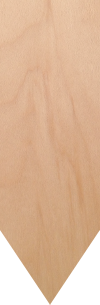
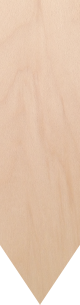
Retina enhanced header

diff --git a/app/assets/stylesheets/pupppypages.css.scss b/app/assets/stylesheets/pupppypages.css.scss
@@ -1,16 +1,18 @@
 body {
+    height: 100%;
     background: -webkit-gradient(linear, left top, left bottom, color-stop(0%, #FAFBF5), color-stop(100%, #D0DBB6));
 }
 #main_header {
     float: left;
-    width:100px;
+    width: 80px;
     height: 305px;
     background: url(/assets/header_bg.png);
     margin-top: 1%;
     margin-left: 2%;
     ul {
         padding-top: 15%;
-        padding-left: 0%;
+        padding-left: 20%;
+        margin-left: 0;
         list-style: none;
         li {
             margin-top: 15%;
@@ -54,13 +56,27 @@ body {
 @media 
 only screen and (-webkit-min-device-pixel-ratio: 2),
 only screen and (min-device-pixel-ratio: 2) {
-    
+
     #main_header {
-        width: 200px;
-        height: 610;
-        ul li span {
-            width: 108px;
-            height: 108px;
+        width: 160px;
+        height: 610px;
+        background: url(/assets/header_bg@2x.png);
+        ul {
+            padding-left: 15%;
+            li span {
+                width: 108px;
+                height: 108px;
+                background: url(/assets/icons@2x.png);
+            }
+            #header-home span.icon {
+                background-position: -4px -4px;
+            }
+            #header-about span.icon {
+                background-position: -4px -224px;
+            }
+            #header-contact span.icon {
+                background-position: -4px -116px;
+            }
         }
     }
 }
